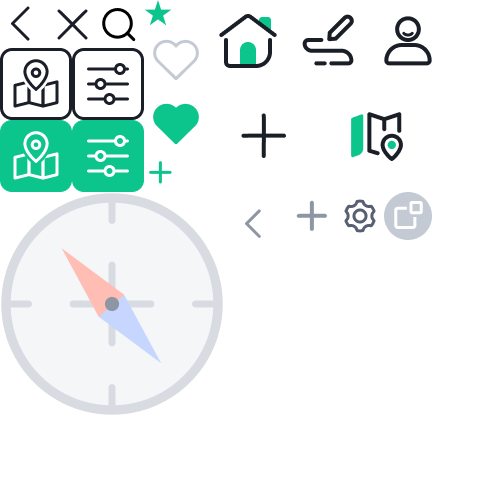
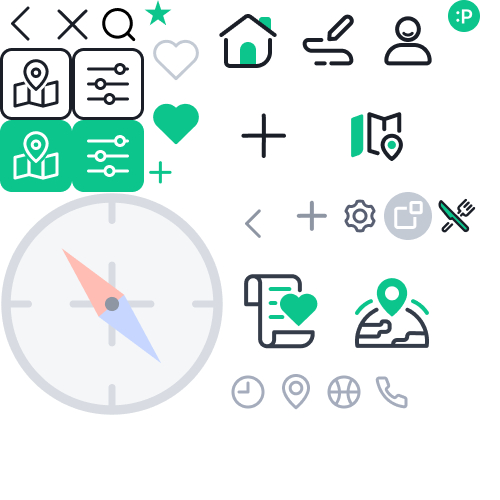
add: 상세 페이지-썸네일,정보,리뷰,슬라이드 마크업

diff --git a/src/components/search/detail/ReviewSwiper.tsx b/src/components/search/detail/ReviewSwiper.tsx
@@ -1,0 +1,93 @@
+'use client';
+
+import { useRef } from 'react';
+import SwiperCore from 'swiper';
+import { Pagination } from 'swiper/modules';
+import { Swiper, SwiperSlide } from 'swiper/react';
+
+import 'swiper/css/navigation';
+import 'swiper/css/pagination';
+
+import 'swiper/css';
+
+const ReviewSwiper = () => {
+  const swiperRef = useRef<SwiperCore>();
+
+  return (
+    <div className="relative pb-[68px]">
+      <Swiper
+        onSwiper={(swiper) => (swiperRef.current = swiper)}
+        spaceBetween={16}
+        slidesPerView={'auto'}
+        modules={[Pagination]}
+        className="reviewSwiper"
+        pagination={true}
+        injectStyles={[
+          `swiper-pagination-bullet{
+              width: 8px;
+              height: 8px;
+              background-color: var(--gray-300)
+            }
+            swiper-pagination-bullet-active{
+              background-color: red
+            }
+        `,
+        ]}
+      >
+        <SwiperSlide>
+          <div className="flex mb-[10px] text-[16px]">
+            <span className="w-[36px] h-[36px] mr-[16px] bg-gray-700 rounded-full">
+              <img src="" alt="" className="" />
+            </span>
+            <span className="font-semibold">김여행</span>
+            <span className="ico_pravel ico_p ml-[4px]"></span>
+            <span className="ml-auto font-medium text-gray-700">
+              <span className="ico_pravel ico_star14 mr-[4px]">평점</span>
+              4.5
+            </span>
+          </div>
+          <div className="bg-gray-100 rounded-[12px]">
+            <img
+              src="/img_dummy.png"
+              alt=""
+              className="min-h-[220px] object-cover bg-gray-700 rounded-t-[12px]"
+            />
+            <div className="p-[18px] box-border text-[14px]">
+              <p className="min-h-[54px] mb-[18px] font-medium text-gray-800">
+                타코가 제일 맛있어요! 바다도 보이고 좋아요.샐러드도 신선하고
+                맛있어요.최고예요! 샐러드도 신선하고 맛있어요.
+              </p>
+              <div className="flex">
+                <strong className="screen_out">연관 태그</strong>
+                <ul className="flex justify-start gap-[3px]">
+                  <li className="tag_bd_gray px-[9px] py-[6px] bg-white text-[12px]">
+                    #타코맛집
+                  </li>
+                  <li className="tag_bd_gray px-[9px] py-[6px] bg-white text-[12px]">
+                    #바다뷰
+                  </li>
+                  <li className="tag_bd_gray px-[9px] py-[6px] bg-white text-[12px]">
+                    #빠네
+                  </li>
+                </ul>
+                <span className="font-semibold">
+                  <span className="ico_pravel ico_like32_on mr-[4px]">
+                    좋아요
+                  </span>
+                  12
+                </span>
+              </div>
+            </div>
+          </div>
+        </SwiperSlide>
+        <SwiperSlide>Slide 2</SwiperSlide>
+        <SwiperSlide>Slide 3</SwiperSlide>
+      </Swiper>
+      <div className="absolute bottom-0 left-0 w-full h-[8px] my-[30px]">
+        <div className="swiper-review-pagination"></div>
+      </div>
+    </div>
+  );
+};
+
+export default ReviewSwiper;

diff --git a/src/components/search/detail/InfoBox.tsx b/src/components/search/detail/InfoBox.tsx
@@ -1,0 +1,59 @@
+const InfoBox = () => {
+  return (
+    <div className="box_search text-[14px]">
+      <div>
+        <span className="inline-block mb-[8px] px-[6px] rounded-[4px] bg-[#DAF1EC] font-medium text-[13px] leading-[24px]">
+          <span className="ico_pravel ico_cate_food align-middle">
+            카테고리
+          </span>
+          양식
+        </span>
+        <div className="mb-[20px]">
+          <strong className="inline-block mr-[12px] font-semibold text-[24px]">
+            비스트로
+          </strong>
+          <span className=" text-gray-600">제주 서귀포시</span>
+        </div>
+        <div className="mb-[20px] pb-[20px] border-b border-gray-200">
+          <span className="inline-block mr-[12px] pr-[12px] border-r border-gray-300 font-semibold text-[16px] leading-[16px]">
+            <span className="ico_pravel ico_star14">평점</span>4.5
+          </span>
+          <span className="text-gray-600 text-[15px] leading-[18px]">
+            리뷰 32개
+          </span>
+          <strong className="screen_out">태그 목록</strong>
+          <ul className="flex justify-start gap-[4px] mt-[12px]">
+            <li className="tag_bg_gray">#파스타</li>
+            <li className="tag_bg_gray">#파스타</li>
+            <li className="tag_bg_gray">#파스타</li>
+          </ul>
+        </div>
+      </div>
+      <strong className="screen_out">영업 정보</strong>
+      <ul className="leading-[24px] text-gray-700 font-medium">
+        <li className="mb-[10px]">
+          <span>
+            <span className="ico_pravel ico_time24 mr-[4px]">영업시간</span>
+            <em className="mr-[8px] font-bold not-italic">영업중</em>
+            화-일 11:00 ~ 21:00
+          </span>
+        </li>
+        <li className="mb-[10px]">
+          <span className="ico_pravel ico_place24 mr-[4px]">위치</span>
+          제주특별자치도 서귀포시 특별자치도, 안덕면 화순로 154 25 1층 화순리
+          1053-128번지 1층
+        </li>
+        <li className="mb-[10px]">
+          <span className="ico_pravel ico_site24 mr-[4px]">관련 사이트</span>
+          instagram.com
+        </li>
+        <li className="mb-[10px] font-bold text-primary">
+          <span className="ico_pravel ico_phone24 mr-[4px]">연락처</span>
+          064-123-4567
+        </li>
+      </ul>
+    </div>
+  );
+};
+
+export default InfoBox;

diff --git a/src/components/search/detail/ReviewBox.tsx b/src/components/search/detail/ReviewBox.tsx
@@ -1,0 +1,43 @@
+import ReviewSwiper from './ReviewSwiper';
+
+const ReviewBox = () => {
+  return (
+    <div className="box_search">
+      <strong className="tit_search">:P의 리뷰</strong>
+      <div className="flex justify-start mb-[20px]">
+        <strong className="mr-[12px] pr-[12px] border-r-[1px] border-gray-300 font-semibold text-[15px] text-gray-600">
+          리뷰 32개
+        </strong>
+        <ul className="flex justify-start gap-[4px]">
+          <li>
+            <button type="button" className="tag_bd_gray">
+              #타코맛집
+            </button>
+          </li>
+          <li>
+            <button type="button" className="tag_bd_gray">
+              #바다뷰
+            </button>
+          </li>
+          <li>
+            <button type="button" className="tag_bd_gray">
+              #빠네
+            </button>
+          </li>
+          <li>
+            <button type="button" className="tag_bd_gray">
+              #청결한 매장
+            </button>
+          </li>
+        </ul>
+      </div>
+      <strong className="screen_out">리뷰 목록</strong>
+      <ReviewSwiper />
+      <button type="button" className="btn_bg_black">
+        리뷰 더보기
+      </button>
+    </div>
+  );
+};
+
+export default ReviewBox;

diff --git a/src/styles/global.css b/src/styles/global.css
@@ -3,13 +3,32 @@
 @tailwind utilities;
 
 @layer components {
-  .screen_out{
-    @apply overflow-hidden absolute w-0 h-0 indent-0
+  .screen_out {
+    @apply overflow-hidden absolute w-0 h-0 indent-0;
   }
-  .margin_center{
-    @apply mx-auto my-0
+  .margin_center {
+    @apply mx-auto my-0;
   }
-  .flex{
-    @apply flex-initial justify-between items-center
+  .flex {
+    @apply flex-initial justify-between items-center;
+  }
+
+  .box_search {
+    @apply px-[16px] py-[30px] box-border border-b-[9px] border-gray-100;
+  }
+  .tit_search {
+    @apply inline-block mb-[20px] font-bold text-[18px];
+  }
+  .tag_bg_gray {
+    @apply px-[6px] py-[3px] rounded-[4px] box-border bg-gray-100 text-gray-600;
+  }
+  .tag_bd_gray {
+    @apply px-[11px] py-[7px] border-[1.5px] border-gray-400 rounded-[26px] text-[14px] text-gray-600 box-border leading-[16px];
+  }
+  .btn_bg_black {
+    @apply w-full h-[54px] bg-black rounded-[12px] text-white text-[15px] font-semibold;
+  }
+  .pagination_review {
+    @apply w-[8px] h-[8px] rounded-full bg-gray-300;
   }
 }

diff --git a/tailwind.config.js b/tailwind.config.js
@@ -3,12 +3,12 @@ const plugin = require('tailwindcss/plugin');
 
 module.exports = {
   content: [
-    "./app/**/*.{js,ts,jsx,tsx,mdx}",
-    "./pages/**/*.{js,ts,jsx,tsx,mdx}",
-    "./components/**/*.{js,ts,jsx,tsx,mdx}",
- 
+    './app/**/*.{js,ts,jsx,tsx,mdx}',
+    './pages/**/*.{js,ts,jsx,tsx,mdx}',
+    './components/**/*.{js,ts,jsx,tsx,mdx}',
+
     // Or if using `src` directory:
-    "./src/**/*.{js,ts,jsx,tsx,mdx}",
+    './src/**/*.{js,ts,jsx,tsx,mdx}',
   ],
   theme: {
     colors: {
@@ -25,13 +25,13 @@ module.exports = {
         700: '#595F72',
         800: '#353C49',
         900: '#1A1E27',
-      }
+      },
     },
     extend: {
       fontFamily: {
-        pretendard: ["var(--font-pretendard)"],
+        pretendard: ['var(--font-pretendard)'],
       },
     },
   },
-  plugins: [require("tailwind-scrollbar-hide")],
-}
+  plugins: [require('tailwind-scrollbar-hide')],
+};

diff --git a/src/styles/icons.css b/src/styles/icons.css
@@ -7,6 +7,7 @@
   text-indent: -9999px;
   background-image: url('/img_pravel.png');
   background-size: 250px 250px;
+  vertical-align: middle;
 }
 .ico_prev24 {
   width: 24px;
@@ -101,4 +102,39 @@
   width: 56px;
   height: 56px;
   background-position: -160px -40px;
+}
+.ico_cate_food {
+  width: 24px;
+  height: 24px;
+  background-position: -216px -96px;
+}
+.ico_time24 {
+  width: 24px;
+  height: 24px;
+  background-position: -112px -184px;
+}
+.ico_place24 {
+  width: 24px;
+  height: 24px;
+  background-position: -136px -184px;
+}
+.ico_site24 {
+  width: 24px;
+  height: 24px;
+  background-position: -160px -184px;
+}
+.ico_phone24 {
+  width: 24px;
+  height: 24px;
+  background-position: -184px -184px;
+}
+.ico_p {
+  width: 16px;
+  height: 16px;
+  background-position: -224px 0;
+}
+.ico_share24 {
+  width: 24px;
+  height: 24px;
+  background-position: -208px -184px;
 }

diff --git a/src/app/search/[tab]/@tabContent/[detail]/page.tsx b/src/app/search/[tab]/@tabContent/[detail]/page.tsx
@@ -1,0 +1,22 @@
+import InfoBox from '@/components/search/detail/InfoBox';
+import ReviewBox from '@/components/search/detail/ReviewBox';
+
+const DetailContent = () => {
+  return (
+    <div>
+      <div className="relative">
+        <img src="/img_dummy.png" alt="" className="object-cover bg-gray-700" />
+        <button
+          type="button"
+          className="absolute bottom-[16px] right-[16px] w-[32px] h-[32px] p-[4px] bg-[#1A1E27B2] box-border rounded-full leading-[22px]"
+        >
+          <span className="ico_pravel ico_share24">공유하기</span>
+        </button>
+      </div>
+      <InfoBox />
+      <ReviewBox />
+    </div>
+  );
+};
+
+export default DetailContent;

diff --git a/src/app/search/[tab]/@tabContent/page.tsx b/src/app/search/[tab]/@tabContent/page.tsx
@@ -1,5 +1,5 @@
+import SearchListItem from '@/components/search/list/SearchListItem';
 import styled from '@/components/search/search.module.css';
-import SearchListItem from '@/components/search/SearchListItem';
 import ShowTypeList from '@/components/search/ShowTypeList';
 import TabContentWrap from '@/components/tab/TabContentWrap';
 import CATEGORY from '@/lib/const/search';

diff --git a/src/components/search/intro/IntroList.tsx b/src/components/search/intro/IntroList.tsx
@@ -5,7 +5,7 @@ import Link from 'next/link';
 
 import CATEGORY from '@/lib/const/search';
 
-import SearchInput from '../form/SearchInput';
+import SearchInput from '../../form/SearchInput';
 
 const IntroList = () => (
   <div className="w-full px-[16px] box-border">

diff --git a/src/app/search/page.tsx b/src/app/search/page.tsx
@@ -1,4 +1,4 @@
-import IntroList from '@/components/search/IntroList';
+import IntroList from '@/components/search/intro/IntroList';
 import HeaderDetail from '@/layout/header/HeaderDetail';
 import ModalWrapper from '@/layout/wrapper/ModalWrapper';
 
